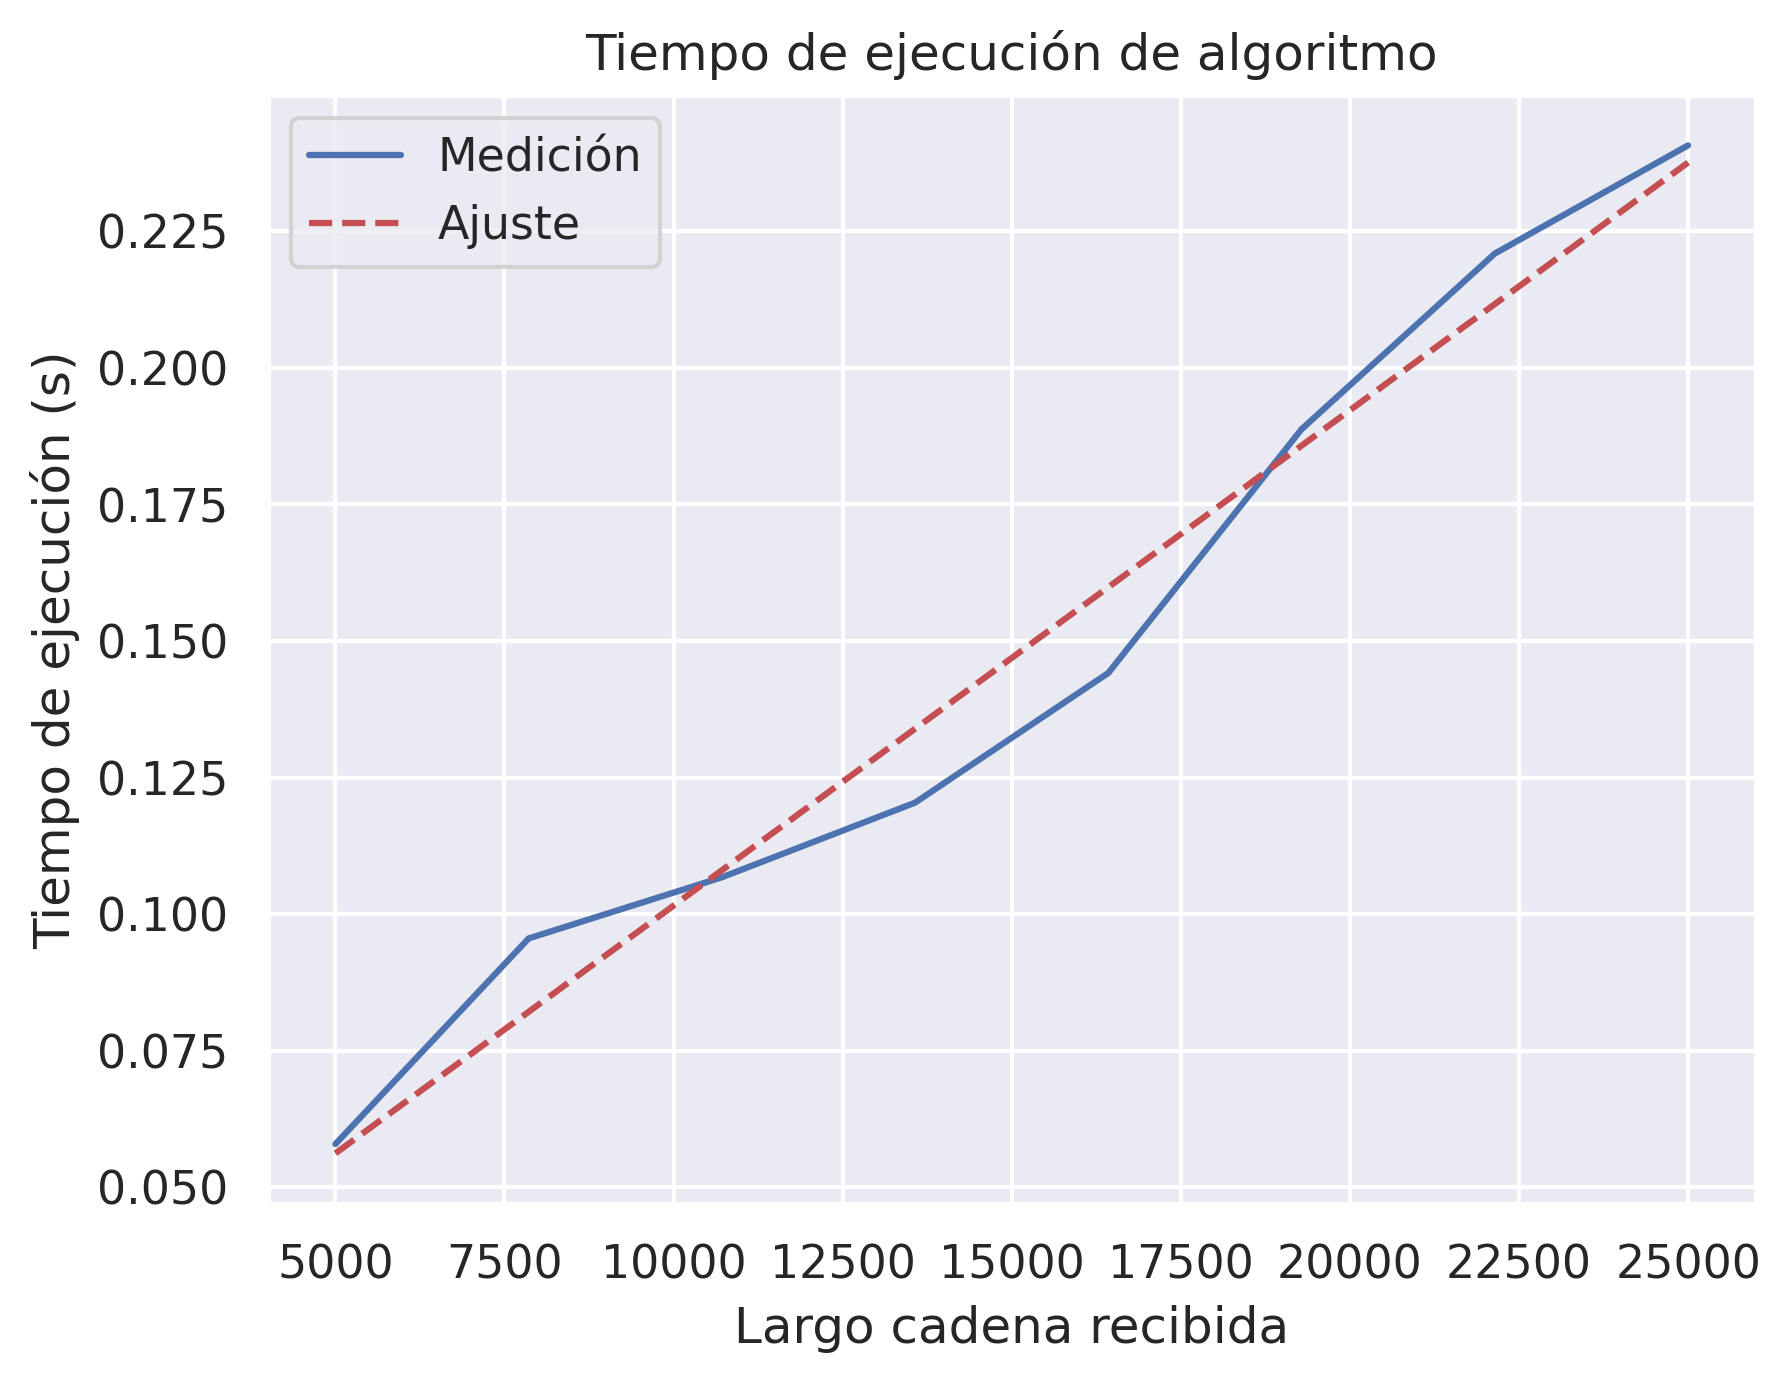
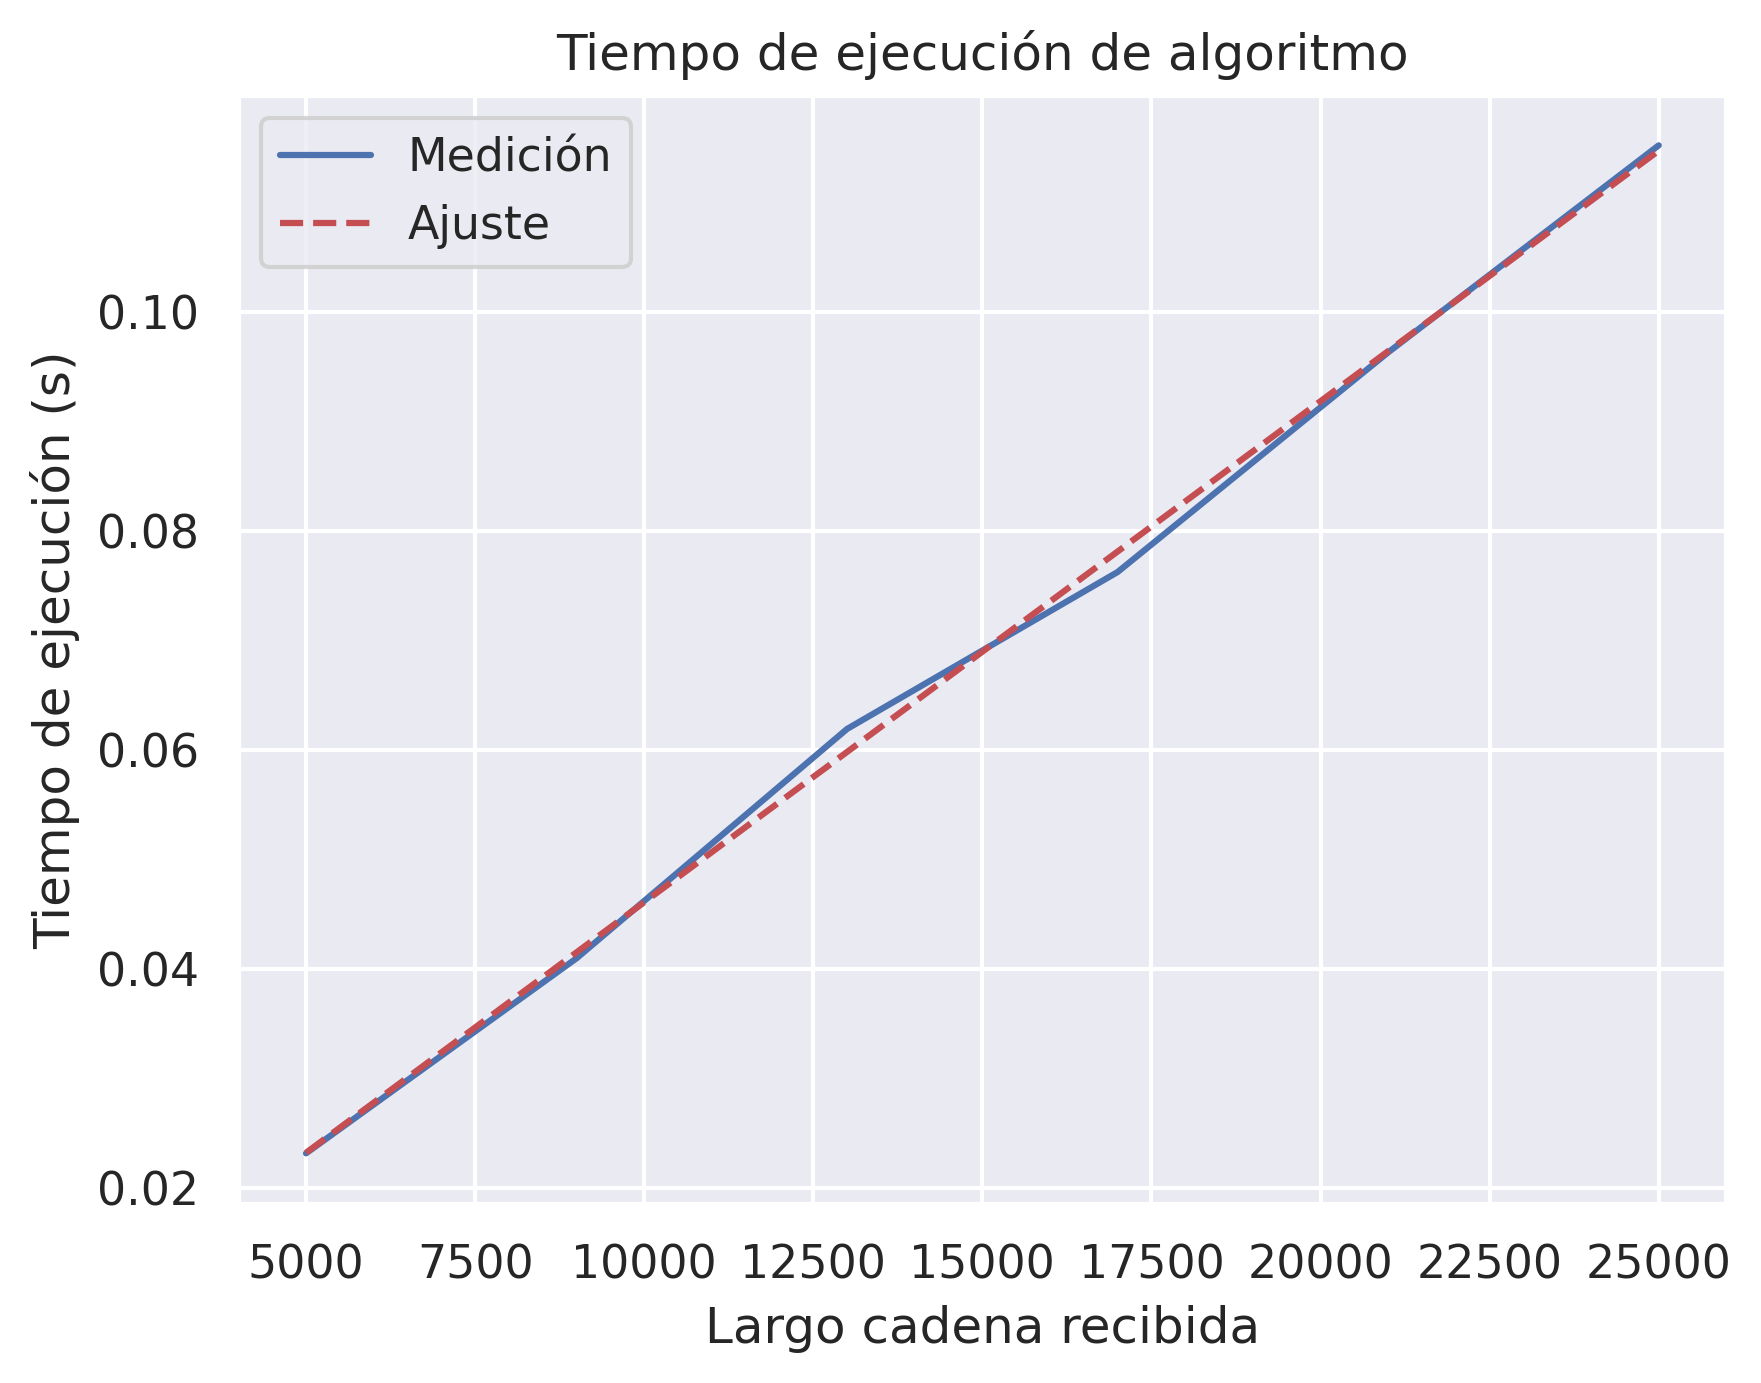
Subo informe

diff --git a/set_datos/graficos.py b/set_datos/graficos.py
@@ -201,17 +201,20 @@ def obtener_args_algoritmo_puro(n):
 def obtener_args_algoritmo_L(L):
     return funcion_algoritmo_L_variable(L)[1]
 
+def obtener_args_algoritmo_n(n):
+    return funcion_algoritmo_puro(n)[1]
+
 if __name__ == '__main__':
     seed(12345)
     np.random.seed(12345)
     sns.set_theme()
 
     # # --------- Medición con n variable ---------
-    # x_n = obtener_volumenes(5000, 25000, 6)
-    # results_n = time_algorithm(ejecutar_algoritmo, x_n, obtener_args_algoritmo_n)
-    # graficar_medicion_n_variable(results_n, x_n)
+    x_n = obtener_volumenes(5000, 25000, 6)
+    results_n = time_algorithm(ejecutar_algoritmo, x_n, obtener_args_algoritmo_n)
+    graficar_medicion_n_variable(results_n, x_n)
 
     # --------- Medición con L variable ---------
-    x_L = list(range(5, 51, 5))
-    results_L = time_algorithm(ejecutar_algoritmo, x_L, obtener_args_algoritmo_L)
-    graficar_medicion_L_variable(results_L, x_L)
+    # x_L = list(range(5, 51, 5))
+    # results_L = time_algorithm(ejecutar_algoritmo, x_L, obtener_args_algoritmo_L)
+    # graficar_medicion_L_variable(results_L, x_L)
